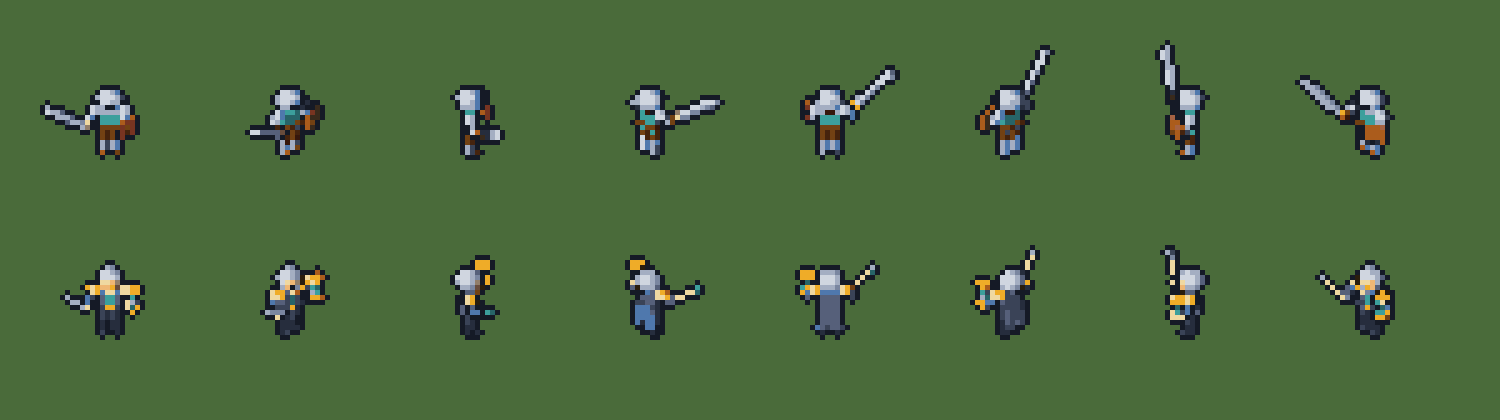
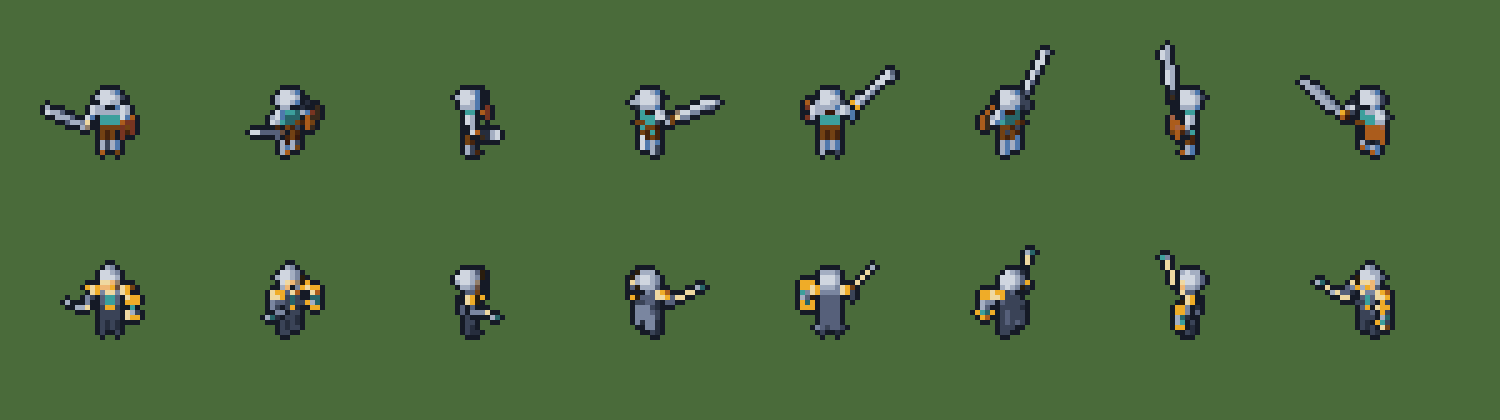
Gemini 3차 지적 수정 — 크로노스 모래시계·지휘봉·코트 색·쓰러짐, 바닥 흙 점
사용자 범위(2026-10-19): 기사는 새 컨셉으로 다시 만들므로 기사 전용 지적은 두고,
크로노스와 바닥만 고친다. 후보는 8방향을 6배로 나란히 구워 골랐다.

크로노스(tools/art/chronos.py):
- E·NE 모래시계가 머리 위 왕관·뿔처럼 보임 → 왼팔을 조금 펴고(el_l 20) 모래시계를
  손 바로 위(HG_UP 0.04)에. 8방향 모두 꼭대기가 머리 꼭대기보다 높지 않다.
- NE 등판만 파랑 → 코트 밝은 단계 4f78ad → 7a86a0. 바지·부츠는 한 단계 밝힘.
- E 지휘봉 묻힘·W 수직 → 정지·걷기 지휘봉 앞 기울기 18° → 35°(BATON).
- N 공격 준비·발사가 같음 → 준비 프레임 지휘봉을 뒤 -30°·바깥 20°로.
- 쓰러짐 → 모래시계는 둘째, 지휘봉은 셋째 프레임부터 사라진다(자세 값 hg·baton).

바닥(tools/art/tiles.py):
- 흙 점 724113·773421(채도가 바탕의 두 배) → 392a1c 하나. 조각 수는 타일마다 1~3개.
- T1 0(두 팔레트).

걷기 통과 자세는 고치지 않았다. Gemini가 기사 E에서 본 «앞으로 든 다리»는
검 손잡이였다. 기사(hero.py)는 그대로다. lint: 크로노스 4종 H5 통과, H3 0, H4 OK.
보기 화면 캡처 10장은 바닥이 바뀌어 다시 찍었다.

Claude-Session: https://claude.ai/code/session_01XsJzvSywTfhUgL72Hqiuhg

diff --git a/tools/art/tiles.py b/tools/art/tiles.py
@@ -10,12 +10,14 @@ import render as R
 
 OUT = Path(__file__).resolve().parents[2] / "art" / "trial" / "tiles"
 T = 16
-# 2026-10-18
-# [동작] 램프 [경계 그늘, 경계 띠, 바탕, 점 1, 점 2]. f24p 점은 바탕과 OKLab ΔE 약 0.05~0.065, 경계 그늘은 풀의 어두운 점 색이다
+# 2026-10-19
+# [동작] 램프 [경계 그늘, 경계 띠, 바탕, 점 1, 점 2]. f24p 풀 점은 바탕과 OKLab ΔE 약 0.05~0.065, 흙 점은 경계 띠와 같은 392a1c, 경계 그늘은 풀의 어두운 점 색이다
 # [이유] F24는 초록이 한 색뿐이라 자동 램프(render.ramp)가 풀 밝은 쪽을 청록·회갈색으로 골라 손으로 정했다. 노란 풀 점(a58c27)은
 #        방패·부츠 색과 겹쳤다(사용자). 2차에는 풀 채도가 높고 경계 그늘(1f240a·212528)이 거의 검다는 Gemini 지적으로 a58c27 자리에
-#        바탕 2d472d를 넣고 그늘을 점 색으로 바꿨다. 흙 경계 띠는 773421·724113으로 밝히면 주황 테로 튀어 392a1c로 둔다
-RAMPS = {"f24p": {"grass": ["183f39", "183f39", "2d472d", "183f39", "39571c"], "dirt": ["2a1d0d", "392a1c", "684c3c", "724113", "773421"]},
+#        바탕 2d472d를 넣고 그늘을 점 색으로 바꿨다. 흙 경계 띠는 773421·724113으로 밝히면 주황 테로 튀어 392a1c로 둔다.
+#        흙 점 724113·773421은 OKLab 채도가 0.089·0.099로 바탕(0.046)의 두 배라 아이템·핏자국처럼 보였다(Gemini 3차 2026-10-19).
+#        팔레트에 바탕과 가까운 무채 갈색이 없어 채도 0.032인 392a1c 하나로 찍는다(ΔE 0.145, 더 어두운 낟알)
+RAMPS = {"f24p": {"grass": ["183f39", "183f39", "2d472d", "183f39", "39571c"], "dirt": ["2a1d0d", "392a1c", "684c3c", "392a1c", "392a1c"]},
          "waldgeist": {"grass": ["32534a", "32534a", "5f7b53", "32534a", "3b6d62"], "dirt": ["382d35", "562923", "66352e", "562923", "825337"]}}
 VARIANTS = 4
 DENSITY = [1.0, 0.0, 0.0, 1.0]  # 변종별 무늬 수 배율. 0이면 민무늬: 들판 타일 절반을 비워 바닥이 덜 자글거린다(Gemini 2차 2026-10-18)
@@ -66,9 +68,10 @@ def tile(corners, var, ramps):
     g, d = ramps["grass"], ramps["dirt"]
     out = np.where(dirt, d[2], g[2])
     # 질감은 가장자리 2px을 비운 안쪽에 가로 2~3px 조각만 찍는다. 노이즈 덩어리(4~5px)는 점박이 격자로 튀었다(사용자 2026-10-18).
-    # 자리는 타일(꼴·변종)마다 다르다. 변종마다 같은 자리면 16꼴이 모두 같은 «>» 무늬로 반복돼 보였다(Gemini 2차 2026-10-18)
+    # 자리는 타일(꼴·변종)마다 다르다. 변종마다 같은 자리면 16꼴이 모두 같은 «>» 무늬로 반복돼 보였다(Gemini 2차 2026-10-18).
+    # 조각 수도 1~3개로 다르게 한다. 늘 3개면 세 조각이 만드는 «>» 군집이 반복돼 보였다(Gemini 3차 2026-10-19)
     rng = np.random.default_rng(500 + 16 * var + tl + 2 * tr + 4 * bl + 8 * br)
-    for k in range(round(3 * DENSITY[var])):
+    for k in range(round(int(rng.integers(1, 4)) * DENSITY[var])):
         y, x = rng.integers(3, T + 1 - 3, 2)  # 패딩 좌표 3~14 = 타일 픽셀 2~13
         kind = 3 + k % 2
         for xx in range(x, min(x + int(rng.integers(2, 4)), T - 1)):

diff --git a/insights/2026-10-18_general_sprite.md b/insights/2026-10-18_general_sprite.md
@@ -95,6 +95,29 @@
 | 어두운 바닥 | 부분 | 상체는 안전하다. 하반신 남색이 외곽선과 비슷해 밤에는 상체만 떠 보일 수 있다. 코트 끝에 1px 테두리를 넣거나 남색 명도를 한 단계 올리라고 했다 | 아래 «판단»의 Claude 의견과 같다 |
 | 같은 편 통일성 | 부분 | 정면에서는 기사와 같은 편으로 묶인다. 하지만 금색이 청록보다 넓고 강해서, 조끼가 가려지는 N·NW 뒷모습은 다른 팀처럼 보인다 | 4.1d 팀 색 규칙과 함께 본다 |
 
+## Gemini 지적 수정(Claude, 2026-10-19)
+
+후보는 정지 8방향(공격은 S·E·N·W × 3프레임)을 6배로 나란히 구워 골랐다. 시험 굽기 스크립트는 저장소에 넣지 않았다.
+
+| 지적 | 고친 것(`chronos.py`) | 결과 |
+|---|---|---|
+| E·NE 모래시계가 머리 위 왕관·뿔 | 왼팔을 조금 펴고(el_l 40 → 20) 모래시계를 손 바로 위(손 위 0.18 → 0.04, `HG_UP`)에 둔다. 동·북동에서는 왼손이 몸 뒤(북쪽)라 화면에서 위로 올라간다. 그래서 높이만 낮춰서는 머리 위로 나온 것이 1px밖에 줄지 않았다(15개 조합 측정) | 8방향 모두 모래시계 꼭대기가 머리 꼭대기보다 높지 않다(머리 위 −2px → 0px). 동·북동에서는 모래시계가 몸 뒤에 가려진다 |
+| NE 등판만 밝은 파랑, N은 회색 | 코트 램프의 밝은 단계 4f78ad를 회청 7a86a0으로 바꿨다 | 북동·북 등판이 같은 옷으로 보인다. 앞면(S·SW)은 그대로 어두운 남색이다 |
+| E 지휘봉이 안 보이고 W는 수직 | 정지·걷기의 지휘봉 앞 기울기를 18° → 35°로 바꿨다(`BATON`). 다섯 후보 가운데 골랐다 | E에서는 지휘봉이 앞(오른쪽 아래)으로 뻗고, W에서는 대각선이 된다 |
+| N 공격 준비·발사가 같다 | 준비 프레임 지휘봉을 뒤(−30°)·바깥(20°)으로 눕혔다. 바깥으로만 눕히면(30°) E에서 지휘봉이 사라졌다 | S·N에서 준비는 대각선, 발사는 과녁 쪽 수직이다. E 준비 프레임은 지휘봉이 짧게 보인다(전과 같다) |
+| 쓰러짐에서 지휘봉이 꺾이고 모래시계가 머리에 붙는다 | 모래시계는 둘째 프레임부터 사라지고, 지휘봉은 셋째 프레임부터 놓친다(자세 값 `hg`·`baton`) | 누운 몸만 남는다 |
+| 하반신이 외곽선과 비슷 | 바지·부츠 램프를 한 단계씩 밝혔다 | 차이는 작다. 밤 장면에서 다시 본다 |
+
+검증:
+- 기사(`hero.py`)는 바꾸지 않았다. 기사 시트도 다시 굽지 않았다.
+- lint는 크로노스 정지·걷기·공격·쓰러짐 모두 H5 통과다. 걷기 H3는 8방향 모두 (0, 0), H4는 8방향 모두 OK다.
+- 캔버스 26px와 기준점 (13, 19)는 그대로다.
+- 보기 화면 `shots` 10쪽을 모두 다시 찍었다. 바닥 타일이 바뀌어 모든 쪽의 캡처가 바뀌었다.
+
+남은 것:
+- NW f3 코트 자락이 벌어지는 문제와 E·W 보폭(걷기): 고치지 않았다.
+- 같은 편 통일성(금색 비중): 팀 색 규칙과 함께 사용자가 정한다.
+
 ## 판단
 
 - 사용자 결정(2026-10-18): 장군 외형은 크로노스로 한다. 정한 것은 외형뿐이었다. 같은 날 SPEC이 영웅 6명을 바꾸면서(S157) 장군 자리를 크로노스(종류 `chronos`, 이명 «시계탑의 지휘관»)가 이었다. 그래서 게임 안 이름도 크로노스이고, 모듈·시트 폴더·미리보기 이름을 `general`에서 `chronos`로 고쳤다. 형체는 그대로라 다시 구운 시트 8장(부위 이미지 포함)과 미리보기 3장이 고치기 전과 픽셀 단위로 같다. 이 기록의 파일 이름은 그날 이름 그대로 둔다.
@@ -105,7 +128,8 @@
 ## 남은 일
 
 - [x] 검수: Gemini 평가(2026-10-19, 사용자가 맡김). 위 표
-- [ ] Gemini 지적 수정: E·NE 모래시계 높이, NE·N 등판 색, E·W 지휘봉, 쓰러짐(지휘봉·모래시계), N·S 공격, 하반신 명도
+- [x] Gemini 지적 수정: E·NE 모래시계 높이, NE·N 등판 색, E·W 지휘봉, 쓰러짐(지휘봉·모래시계), N·S 공격, 하반신 명도(2026-10-19, 위 «Gemini 지적 수정»)
+- [ ] 팀 색 면적·금색 비중(같은 편 통일성): 사용자 결정 대기
 - [x] 보기 화면(`viewer.gd`)에 크로노스 쪽을 더했다(2026-10-19, 10쪽, `0` 키). 정지·걷기 제자리 8fps·공격 8방향·쓰러짐·걷기 이동을 한 쪽에 둔다. 45° D f24p 24px만 굽어서 이 쪽에서는 A·O·P·S가 듣지 않는다. 시트 폴더는 `who`로 고르고, 공격·쓰러짐 재생은 5쪽과 같은 함수(`attacker`·`faller`)를 쓴다. 5쪽 캡처는 고치기 전과 위 안내 띠(쪽 번호)만 다르다. 캡처: `preview/view_10.png`
 - [x] 광륜: 크로노스 오라 원의 시계 문자판 눈금으로 살렸다(위 «광륜을 오라 원 이펙트로», S160·I152, 사용자 2026-10-18)
 - [x] 공격 동작: 원거리로 바꿨다(위 «공격 동작을 원거리로», 사용자 2026-10-18)

diff --git a/insights/2026-10-18_art_trial.md b/insights/2026-10-18_art_trial.md
@@ -258,6 +258,21 @@ Claude 대조(1차·2차 입력을 나란히):
 
 N 공격·성벽·경계 점 지적은 Claude가 대조하지 않았다.
 
+## 4차 수정(Claude, 2026-10-19)
+
+범위(사용자 2026-10-19): 기사는 새 컨셉 아트를 받아 바스티온으로 다시 만든다. 그래서 기사에만 해당하는 지적(E 검 실종, W 검 수직, 기사 쓰러짐)은 고치지 않았다. 크로노스는 컨셉 아트를 받은 것으로 보고 고쳤다([크로노스 기록](2026-10-18_general_sprite.md) «Gemini 지적 수정»).
+
+| 지적 | 고친 것 | 결과 |
+|---|---|---|
+| 흙 점의 붉은기 | 흙 점 두 색(724113·773421)을 경계 띠와 같은 392a1c 하나로 바꿨다(`tiles.py` RAMPS). 두 색은 OKLab 채도가 0.089·0.099로 바탕(0.046)의 두 배였다. 팔레트에 바탕과 가까운 무채 갈색이 없어서, 채도 0.032인 더 어두운 낟알로 찍는다 | T1 0(두 팔레트). 흙 위 점이 어두운 낟알로 보인다 |
+| 바닥 «>» 군집 | 타일마다 조각 수를 1~3개로 다르게 했다(늘 3개였다) | T1 0 |
+| 걷기 통과 자세(H6) | 고치지 않았다. Gemini가 기사 E의 f2·f4에서 «앞으로 든 다리(┗)»로 본 것은, 엉덩이 높이에서 앞으로 튀어나온 흰 검 손잡이였다(8배 확대로 확인). 다리는 모여 있다. 크로노스는 통과 프레임에서 다리가 모여 보인다 | 공용 걷기(`hero.py` WALK)는 그대로다 |
+
+남긴 것은 셋이다.
+- 공격 잔상: 근접 영웅(바스티온)을 만들 때 넣는다.
+- 팀 색 면적: 사용자가 정한다.
+- 성벽 위 기사·경계 1px 점: 대조하지 않았다.
+
 ## 판단
 
 - 2026-10-18 사용자 결정으로 Claude 제작(B 방식)으로 간다. 그래서 아래 T1·T4 세는 법 문제는 판정을 가르지 않게 됐다.
@@ -271,7 +286,11 @@ N 공격·성벽·경계 점 지적은 Claude가 대조하지 않았다.
 
 - [x] 사용자 결정: 팔레트·외곽선·각도·유닛 렌더 크기·성벽 높이(2026-10-18, 위 «1차 검수»)
 - [x] 2·3차 수정 재검수: Gemini 3차 평가(2026-10-19, 사용자가 맡김). 위 표
-- [ ] Gemini 지적 중 남은 것: 팀 색 면적(15% 미만), 공격 잔상, 쓰러진 모습, 흙 점 붉은기, 대각·측면에서 묻히는 투구 슬릿. 3차 평가의 새 지적(E 검 실종, W 검 수직, 걷기 통과 자세, 바닥 «>» 군집, 성벽 위 기사)도 더한다
+- [x] 흙 점 붉은기·바닥 «>» 군집: 4차 수정(2026-10-19). 걷기 통과 자세는 검 손잡이를 다리로 본 것이라 고치지 않았다
+- [ ] 팀 색 면적(15% 미만): 사용자 결정 대기
+- [ ] 공격 잔상: 근접 영웅(바스티온)을 만들 때 넣는다
+- [ ] 성벽 위 기사의 하반신이 총안 외곽선 위에 그려진다는 지적, 풀·흙 경계 1px 고립 점: 대조하지 않았다
+- 기사 전용 지적(E 검 실종, W 검 수직, 쓰러진 모습, 투구 슬릿)은 기사를 바스티온 컨셉으로 다시 만들어서 고치지 않는다(사용자 2026-10-19)
 - [ ] 성벽 겹침은 보기 화면에서만 고쳤다. 게임(4.1a)에서는 성벽 몸체 → 성벽 위 유닛 → 흉벽 층 순서의 바닥선 정렬이 필요하다
 - [x] 아직 안 본 판정 H1·H6·T2·M3: Gemini 3차 평가(2026-10-19). H1 24px 부분, H6 부분, H8 불합격, M3 C 추천, T2 부분
 - [ ] 유닛 방식은 4.1a에서 M1·M2·M6을 잰 뒤 4.1d 전에 고른다(06 §2)
